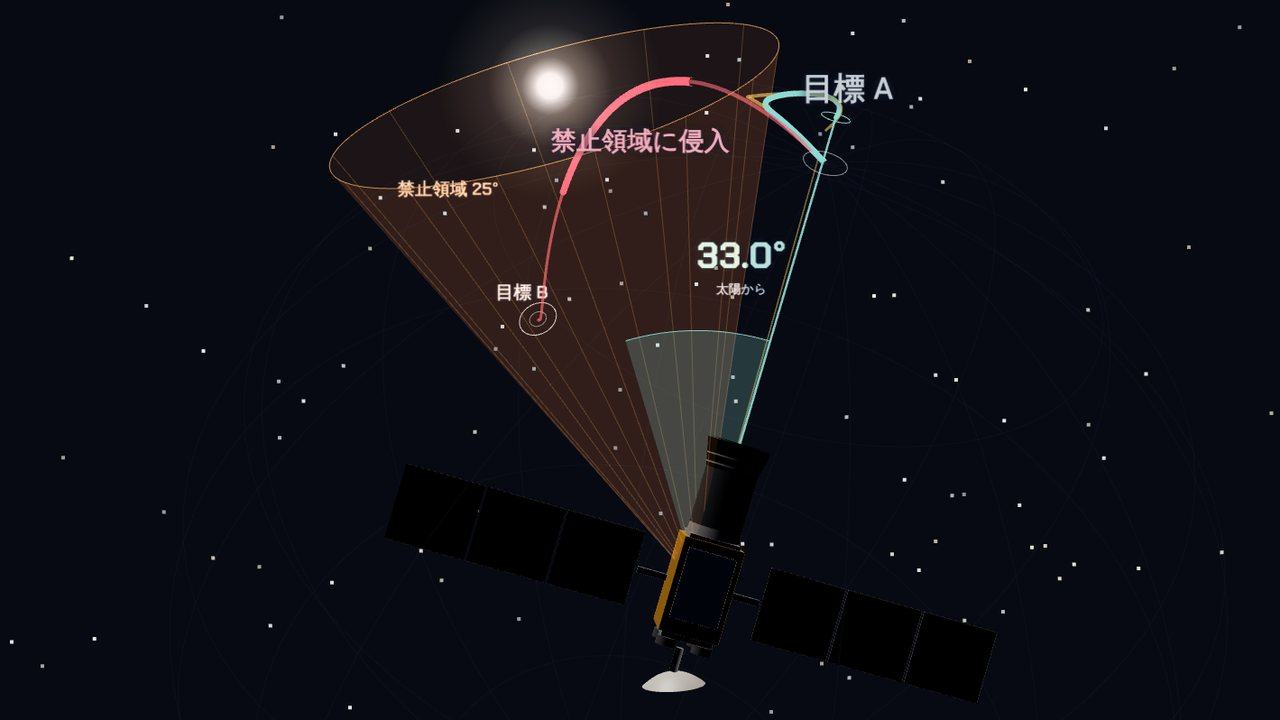
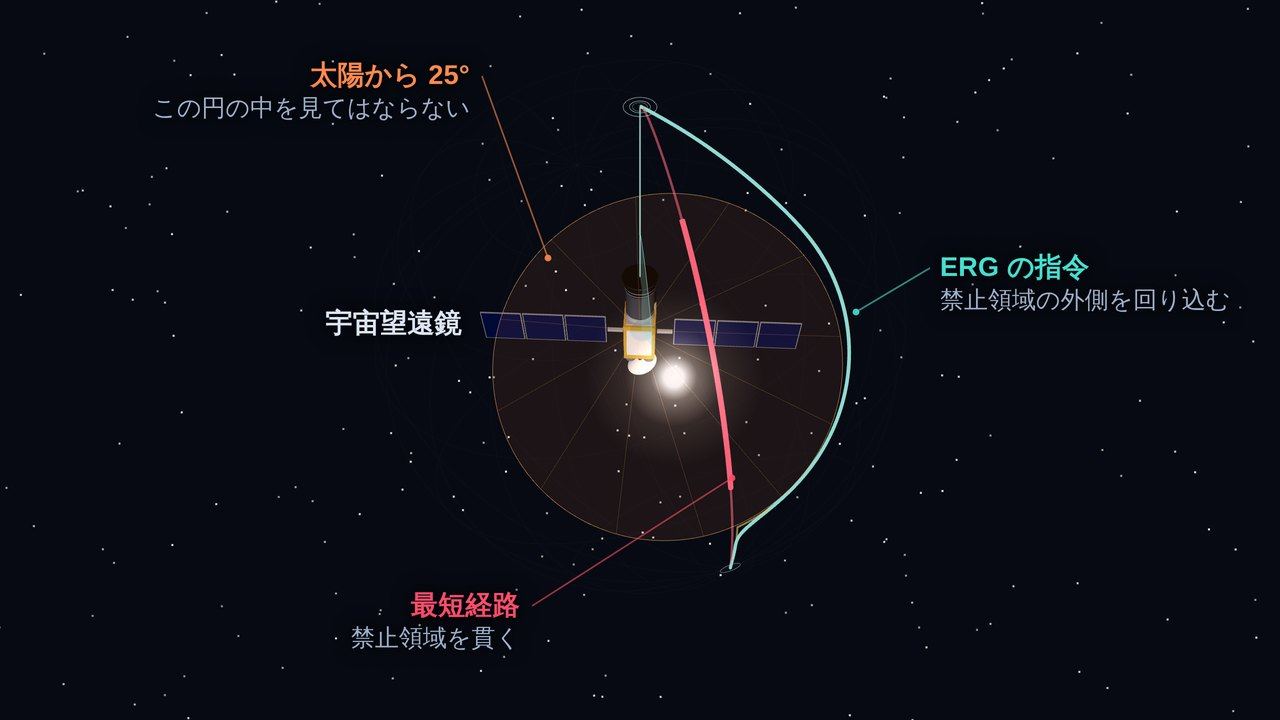
Redraw the Research figure so it reads at a glance
The old still had five pieces of text scattered wherever the projection
put them, from a three-quarter angle where "inside the cone" and "outside
the cone" differ by fifteen pixels, and a spacecraft that was a black
silhouette -- the solar cells are Kd 0.06 0.12 0.32 on a near-black sky.

The frame is now the "from the Sun" view at the end of the run. From that
direction the keep-out cone projects to a circle: the shortest path runs
through the ring and the governed path bulges outside it, with no depth to
argue about. The geometry carries the argument, so the annotation is four
notes instead of five, each placed by hand with its leader leaving on the
side its anchor is on -- the note for the inner track comes from the left
and the one for the outer track from the right, so neither leader has to
cross the other track. The spacecraft sits beside its own label and needs
no leader at all. Figure mode lights it from the camera side: backlit is
honest on screen, where motion carries it, and illegible in a still.

scripts/render_slew_figure.mjs regenerates both languages from the viewer,
so the frame is a URL and the placement is reviewable rather than a
screenshot nobody can reproduce. The viewer's ?figure=1 keeps the geometry
and drops the overlay, the sprite text and the drift, and takes &view=,
&t= and &earth=.

Both captions now say the picture is seen from the Sun and which marker is
which target, because that projection has to be set up before the circle
means anything.

diff --git a/_pages/ja/research.md b/_pages/ja/research.md
@@ -62,8 +62,8 @@ lang_ref: research
 前節で述べた最適化を必要としない手法は，このような状況で有効に働きます。現在は，複数の小型衛星が協調して姿勢を変更する枠組みの構築に取り組んでいます。
 
 <figure class="media-figure">
-  <img src="{{ base_path }}/images/research/sun-safe-slew-ja.jpg" width="1280" height="720" loading="lazy" decoding="async" alt="2つの観測対象の間で向きを変える宇宙望遠鏡。最短経路は太陽まわりの 25 度の禁止円錐を貫き，もう一方の経路は円錐の外側を回り込んでいる。太陽から 33 度であることを示す扇形が描かれている。">
-  <figcaption>太陽がほぼ経路上にある 95&deg; の姿勢変更です。赤が最短経路で，太陽まわりの 25&deg; の禁止円錐を貫きます。青緑が ERG の指令で，円錐の外側を回り込み，太陽から 33&deg; を保ち，リアクションホイールには上限の 18 % を超えるトルクを要求しません。ブラウザ上で動くアニメーションは<a href="{{ base_path }}/ja/sun-safe-slew/">太陽を避ける姿勢変更</a>のページにあります。</figcaption>
+  <img src="{{ base_path }}/images/research/sun-safe-slew-ja.jpg" width="1280" height="720" loading="lazy" decoding="async" alt="太陽の方向から見た図。太陽まわりの 25 度の禁止領域が橙色の円として描かれ，その中心に宇宙望遠鏡がある。2つの観測対象を結ぶ赤い最短経路は円の中を通り，青緑の経路は円の外側へ大きく膨らんで回り込んでいる。">
+  <figcaption>太陽がほぼ経路上にある 95&deg; の姿勢変更を，<strong>太陽の方向から見た図</strong>です。この向きから見ると，太陽まわりの 25&deg; の禁止領域は橙色の円として現れ，円の内側が拘束の破れになります。下の印が姿勢変更前の観測対象，上の印が変更後の観測対象で，赤の最短経路は円の中を通り，青緑の ERG の指令は円の外側を回り込みます。このとき，リアクションホイールに要求されるトルクは上限の 18 % に収まります。ブラウザ上で動くアニメーションは<a href="{{ base_path }}/ja/sun-safe-slew/">太陽を避ける姿勢変更</a>のページにあります。</figcaption>
 </figure>
 
 > **科学研究費助成事業 基盤研究（B）**（2026〜2029年度，課題番号 26K00967）

diff --git a/_pages/research.md b/_pages/research.md
@@ -62,8 +62,8 @@ Furthermore, an on-board computer must meet mass limits at launch and withstand 
 The optimization-free methods described above are effective in precisely this setting. We are currently working toward a framework in which several small satellites reorient cooperatively.
 
 <figure class="media-figure">
-  <img src="{{ base_path }}/images/research/sun-safe-slew.jpg" width="1280" height="720" loading="lazy" decoding="async" alt="A space telescope turning between two targets. The shortest path cuts straight through a shaded 25-degree exclusion cone around the Sun; a second path slides around the outside of the cone, with a wedge marking 33 degrees from the Sun.">
-  <figcaption>A 95&deg; retargeting slew with the Sun almost exactly on the way. The red track is the shortest path, straight through the 25&deg; exclusion cone. The teal track is what the governor commands: it slides around the outside, holds 33&deg; from the Sun, and never asks the reaction wheels for more than 18 % of their torque. The animation runs in your browser on the <a href="{{ base_path }}/sun-safe-slew/">Sun-safe slew</a> page.</figcaption>
+  <img src="{{ base_path }}/images/research/sun-safe-slew.jpg" width="1280" height="720" loading="lazy" decoding="async" alt="The scene viewed from the Sun. The 25-degree keep-out cone around the Sun appears as an orange circle with the space telescope at its centre. The red shortest path between two science targets runs through the circle; a second path bulges well outside it.">
+  <figcaption>A 95&deg; retargeting slew with the Sun almost exactly on the way, <strong>seen from the Sun</strong>. From that direction the 25&deg; keep-out cone projects to the orange circle, and inside the ring is a breach. The lower marker is the science target the telescope starts from and the upper one is where it has to get to: the red shortest path runs through the circle, while the teal path the governor commands stays outside it — and never asks the reaction wheels for more than 18 % of their torque. The animation runs in your browser on the <a href="{{ base_path }}/sun-safe-slew/">Sun-safe slew</a> page.</figcaption>
 </figure>
 
 > **JSPS KAKENHI, Grant-in-Aid for Scientific Research (B)** (FY2026–2029, 26K00967)

diff --git a/README.md b/README.md
@@ -132,8 +132,23 @@ this repository. `satellite.obj` is generated from primitives upstream and is CC
 since the viewer does not load it.
 
 The still on the Research pages (`images/research/sun-safe-slew*.jpg`) is rendered from
-the viewer with `#shell` hidden, one per language because the labels drawn into the scene
-are localized.
+the viewer itself by `scripts/render_slew_figure.mjs`, one per language:
+
+```bash
+python3 -m http.server 8000                                   # serve the site root
+NODE_PATH=<global node_modules> \
+  node scripts/render_slew_figure.mjs http://127.0.0.1:8000 images/research
+```
+
+The viewer's `?figure=1` mode strips the overlay and the text baked into the scene as
+sprites, leaving geometry, and takes `&view=`, `&t=` and `&earth=` so a URL fixes the
+frame. Figure mode also lights the spacecraft from the camera side: on screen it is
+backlit and reads as a silhouette in motion, which is honest, but a still has no motion
+to carry it and the solar cells are near black on a near-black sky. The annotation is
+placed by hand in the script, in pixel coordinates of the 1280x720 frame, so it holds
+only for the view and time set there. The frame is the "from the Sun" view at the end of
+the run, where the keep-out cone projects to a circle and inside the ring is a breach
+with no depth to argue about. Downscale the 2x screenshot to 1280x720 before committing.
 
 ## Deployment
 
